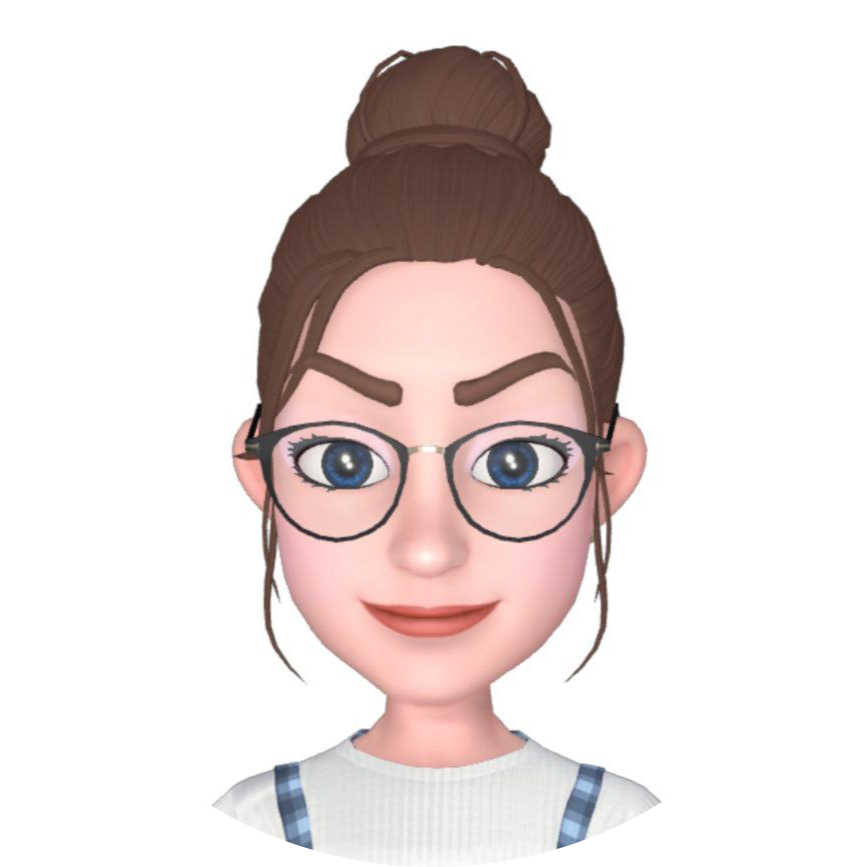
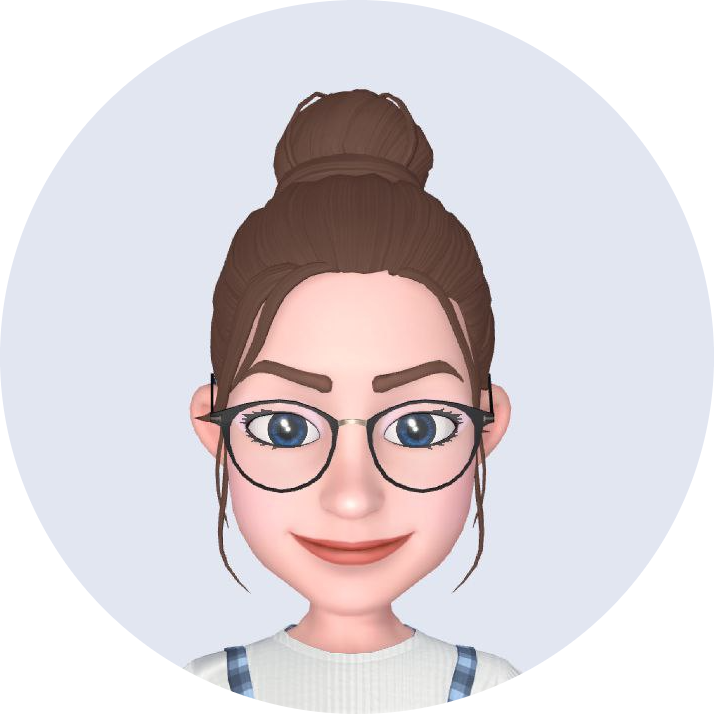
Main components style changed

diff --git a/CSS - My Site/css/styles.css b/CSS - My Site/css/styles.css
@@ -8,53 +8,139 @@ h1 {
     font-size: 5.625rem;
     margin: 50px auto 0 auto;
     font-family: 'Sacramento', cursive;
-    
-  
+    color: #66BFBF;
 }
 
 h2 {
     font-family: 'Montserrat', sans-serif;
     font-size: 2.5rem;
-  
+    font-weight: normal;
+    color: #66BFBF;
 }
 
 h3 {
     font-family: 'Montserrat', sans-serif;
-  
+    color: #11999E;
 }
 
+hr {
+    border: 7px;
+    border-style: dotted none none;
+    width: 4%;
+    color: #b3b4b4;
+}
 
 .pro {
     text-decoration: underline;
 }
 
 .top-container {
-    background-color: #CBEAED;
+    background-color: #CCF2F4;
     padding-top: 100px;
     position: relative;
 }
 
 .middle-container {
-    background-color: #FFFFDD;
-}
-
-.bottom-container {
-    background-color: #CBEAED;
+    background-color: white;
+    color: #40514E;
 }
 
 .top-cloud {
+    width: 200px;
     position: absolute;
     right: 480px;
     top: 50px;
 }
 
 .bottom-cloud {
+    width: 200px;
     position: absolute;
     top: 400px;
-    left: 520px;
+    left: 470px;
+}
+
+.woods {
+    margin-top: 100px;
+}
+
+.profile {
+    width: 25%;
+    margin: 100px auto 100px;
+    line-height: 2;
 }
 
 .profile img {
-    height: 200px;
-    width: 200px;
+    width: 50%;
+}
+
+.skills {
+    margin: 100px 0;
+}
+.skill-row {
+    width: 50%;
+    margin: 100px auto 100px;
+    text-align: left;
+    line-height: 2;
+}
+
+
+.design {
+    width: 25%;
+    float: left;
+    margin-right: 30px;
+}
+
+.development {
+    width: 25%;
+    float: right;
+    margin-left: 30px;
+}
+  
+.contact-me {
+    margin: 100px auto 100px;
+    line-height: 2;
+}
+
+.contact-me p {
+    margin: 32px auto 50px auto;
+    width: 35%;
+}
+
+.btn {
+    background: #78dbdb;
+    background-image: -webkit-linear-gradient(top, #78dbdb, #66BFBF);
+    background-image: -moz-linear-gradient(top, #78dbdb, #66BFBF);
+    background-image: -ms-linear-gradient(top, #78dbdb, #66BFBF);
+    background-image: -o-linear-gradient(top, #78dbdb, #66BFBF);
+    background-image: linear-gradient(to bottom, #78dbdb, #66BFBF);
+    -webkit-border-radius: 21;
+    -moz-border-radius: 10;
+    border-radius: 10px;
+    font-family: 'Montserrat', sans-serif;
+    font-weight: normal;
+    color: #EAF6F6;
+    font-size: 20px;
+    padding: 10px 20px 10px 20px;
+    text-decoration: none;
+  }
+  
+  .btn:hover {
+    background: #19bec4;
+    background-image: -webkit-linear-gradient(top, #19bec4, #11999E);
+    background-image: -moz-linear-gradient(top, #19bec4, #11999E);
+    background-image: -ms-linear-gradient(top, #19bec4, #11999E);
+    background-image: -o-linear-gradient(top, #19bec4, #11999E);
+    background-image: linear-gradient(to bottom, #19bec4, #11999E);
+    text-decoration: none;
+  }
+
+.bottom-container {
+    background-color: #66BFBF;
+    color: #EAF6F6;
+}
+
+.footer-link {
+    top: 50px;
+    color: #11999E;
+
 }

diff --git a/CSS - My Site/index.html b/CSS - My Site/index.html
@@ -17,7 +17,7 @@
         <h1>I'm Yana.</h1>
         <h2>a <span class="pro">pro</span>grammer.</h2>
         <img class="bottom-cloud" src="images/cloud.png" alt="cloud-img">
-        <img class="woods" src="images/woods.png" alt="woods-img">
+        <img class="woods" src="images/tree.png" alt="tree-img">
     </div>
     <div class="middle-container">
         <div class="profile">
@@ -29,14 +29,14 @@
         <div class="skills">
           <h2>My Skills.</h2>
           <div class="skill-row">
-            <img class="" src="" alt="">
-            <h3>Lorem & Ipsum</h3>
-            <p>Lorem ipsum dolor sit amet, quis in duis, iaculis id felis. Consectetuer vestibulum, nunc urna lectus, erat ligula. Hendrerit nam, lectus ante, ut lorem eros.</p>
+            <img class="design" src="images/design.png" alt="design-img">
+            <h3>Design</h3>
+            <p>Lorem ipsum dolor sit amet, quis in duis, iaculis id felis. Consectetuer vestibulum, nunc urna lectus, erat ligula. Hendrerit nam, lectus ante, ut lorem eros. Lorem ipsum dolor sit amet, mauris sed consectetuer. Etiam et eu, bibendum interdum, lacus quis mauris. Curabitur wisi, quisque vel eu, rutrum nam.</p>
           </div>
           <div class="skill-row">
-            <img class="" src="" alt="">
-            <h3>Lorem Ipsum Dolor</h3>
-            <p>Lorem ipsum dolor sit amet, mauris sed consectetuer. Etiam et eu, bibendum interdum, lacus quis mauris. Curabitur wisi, quisque vel eu, rutrum nam.</p>
+            <img class="development" src="images/development.png" alt="development-img">
+            <h3>Development</h3>
+            <p>Lorem ipsum dolor sit amet, mauris sed consectetuer. Etiam et eu, bibendum interdum, lacus quis mauris. Curabitur wisi, quisque vel eu, rutrum nam. Lorem ipsum dolor sit amet, quis in duis, iaculis id felis. Consectetuer vestibulum, nunc urna lectus, erat ligula. Hendrerit nam, lectus ante, ut lorem eros.</p>
           </div>
         </div>
         <hr>
